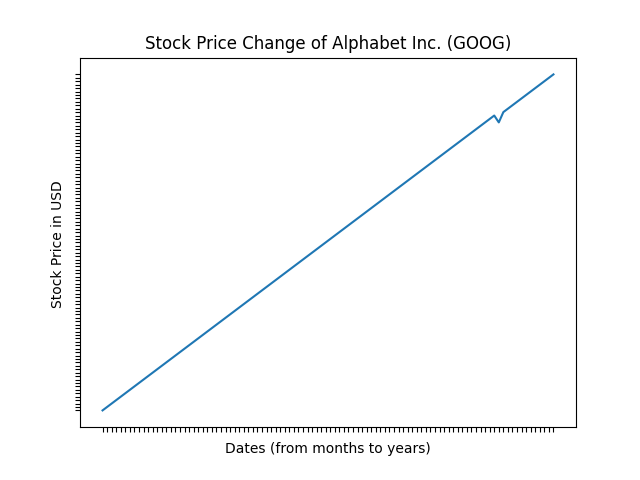
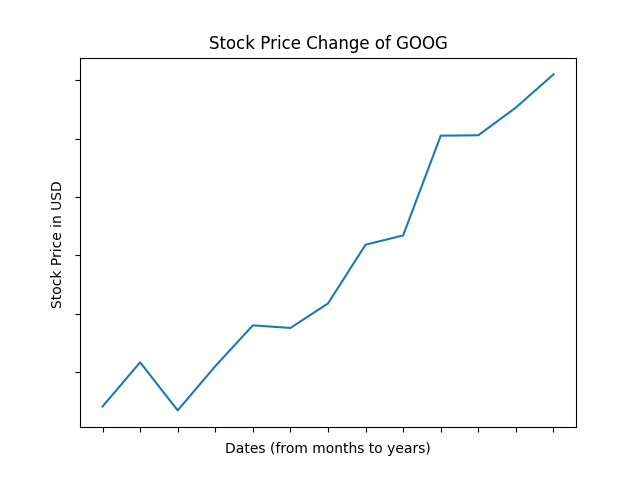
finished slack-bot

diff --git a/stock_api.py b/stock_api.py
@@ -11,6 +11,12 @@ from selenium.webdriver.chrome.options import Options
 import pandas as pd
 from bs4 import BeautifulSoup
 import matplotlib.pyplot as plt
+from dotenv import load_dotenv
+import os
+from pathlib import Path
+
+env_path = Path('.') / '.env'
+load_dotenv(dotenv_path=env_path)
 
 """
 Initlalizes the current requested stock URL if it exists 
@@ -76,28 +82,20 @@ def getInfo(stock_name):
 
 # Draws and downloads the graph of the requested stock
 def getGraph(stock_name):
-    soup = scrape_hist(stock_name)
-    name = get_name(soup)
-    if(soup == "Does not exist"):
-        return "I don't think this stock exists"
-    dates = []
-    prices = []
-    data = soup.findAll('td', 'Py(10px) Ta(start) Pend(10px)')
-    for item in data:
-        dates.append(item.get_text())
-    dates.reverse()
-    price = soup.findAll('td', 'Py(10px) Pstart(10px)')
-    i = 3
-    while i < price.__len__():
-        prices.append(price[i].get_text())
-        i += 6
-    prices.reverse()
-    plt.plot(dates,prices)
-    plt.title('Stock Price Change of ' + name)
-    plt.ylabel("Stock Price in USD ")
-    plt.xlabel("Dates (from months to years)")
-    ax = plt.gca()
-    ax.axes.xaxis.set_ticklabels([])
-    ax.axes.yaxis.set_ticklabels([])
-    plt.savefig('plot.png', dpi=100)
-    return prices
+    url = 'https://eodhistoricaldata.com/api/eod/' + stock_name + '.US?api_token=' + os.environ['GRAPH_TOKEN'] + '&period=m&from=2019-01-05'
+    print(url)
+    try:
+        data = pd.read_csv(url)
+        dates = data['Date']
+        prices = data['Close']
+        plt.plot(dates,prices)
+        plt.title('Stock Price Change of ' + stock_name)
+        plt.ylabel("Stock Price in USD ")
+        plt.xlabel("Dates (from months to years)")
+        ax = plt.gca()
+        ax.axes.xaxis.set_ticklabels([])
+        ax.axes.yaxis.set_ticklabels([])
+        plt.savefig('plot.png', dpi=100)
+    except:
+        return "This stock does not exist"
+    return 'Here is your graph:'
